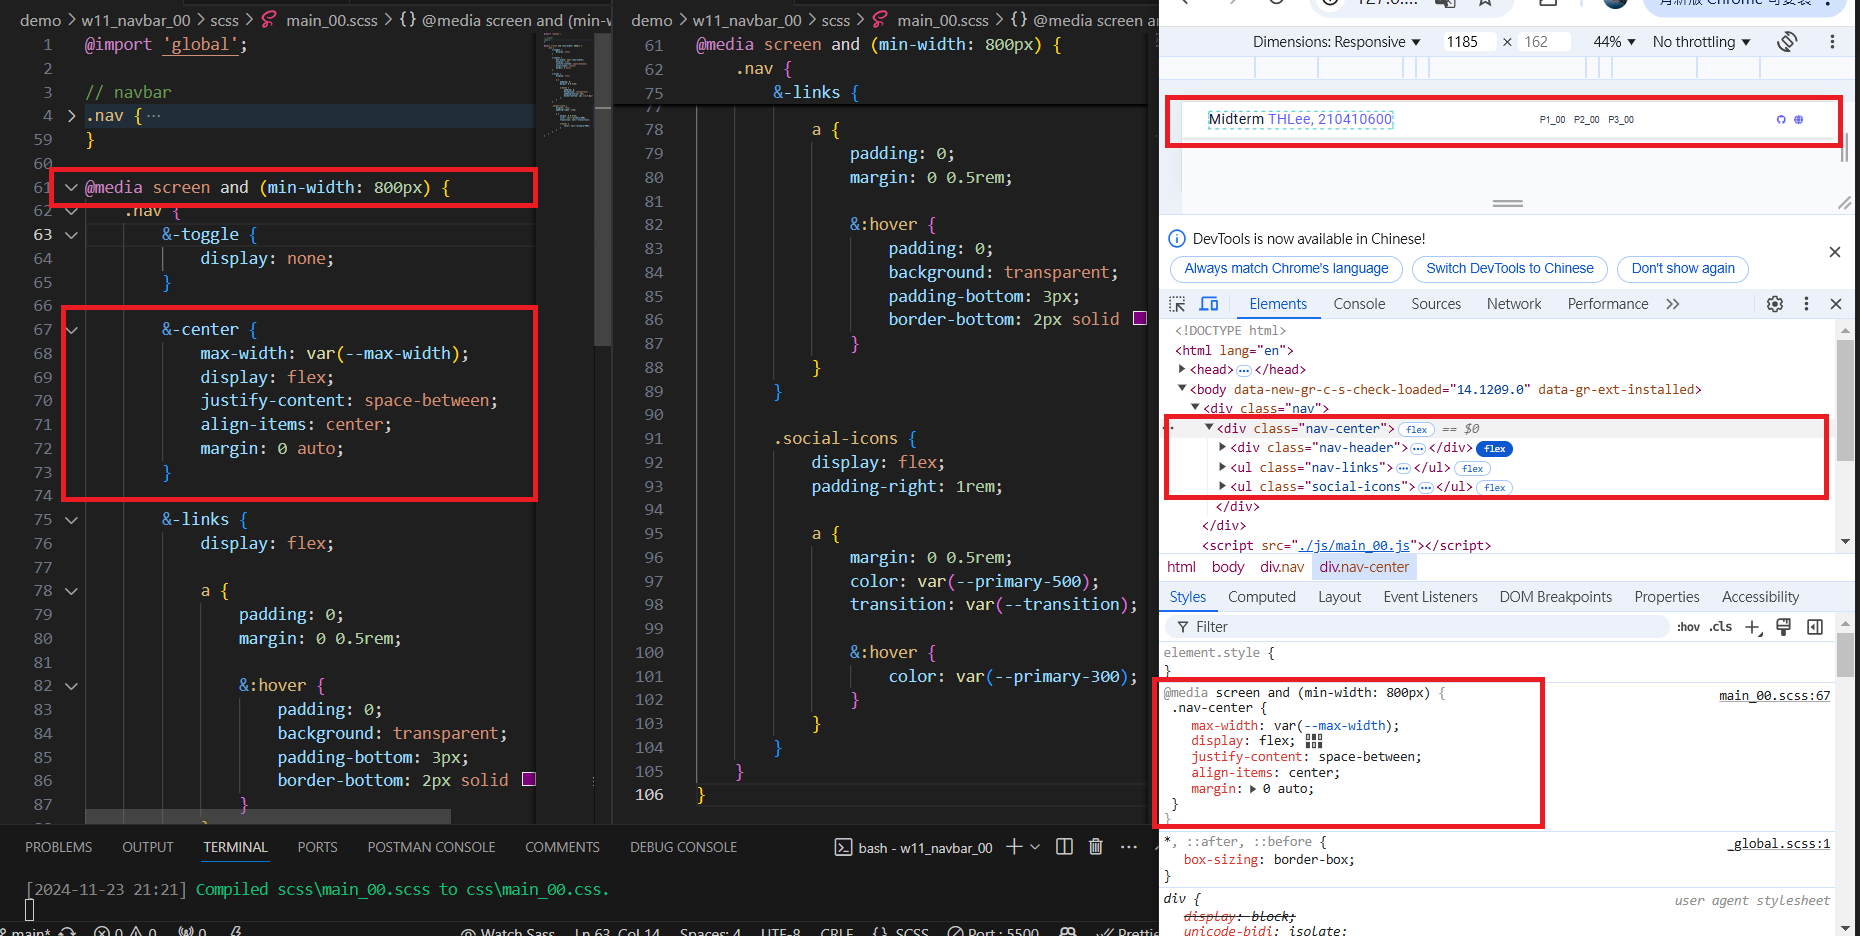
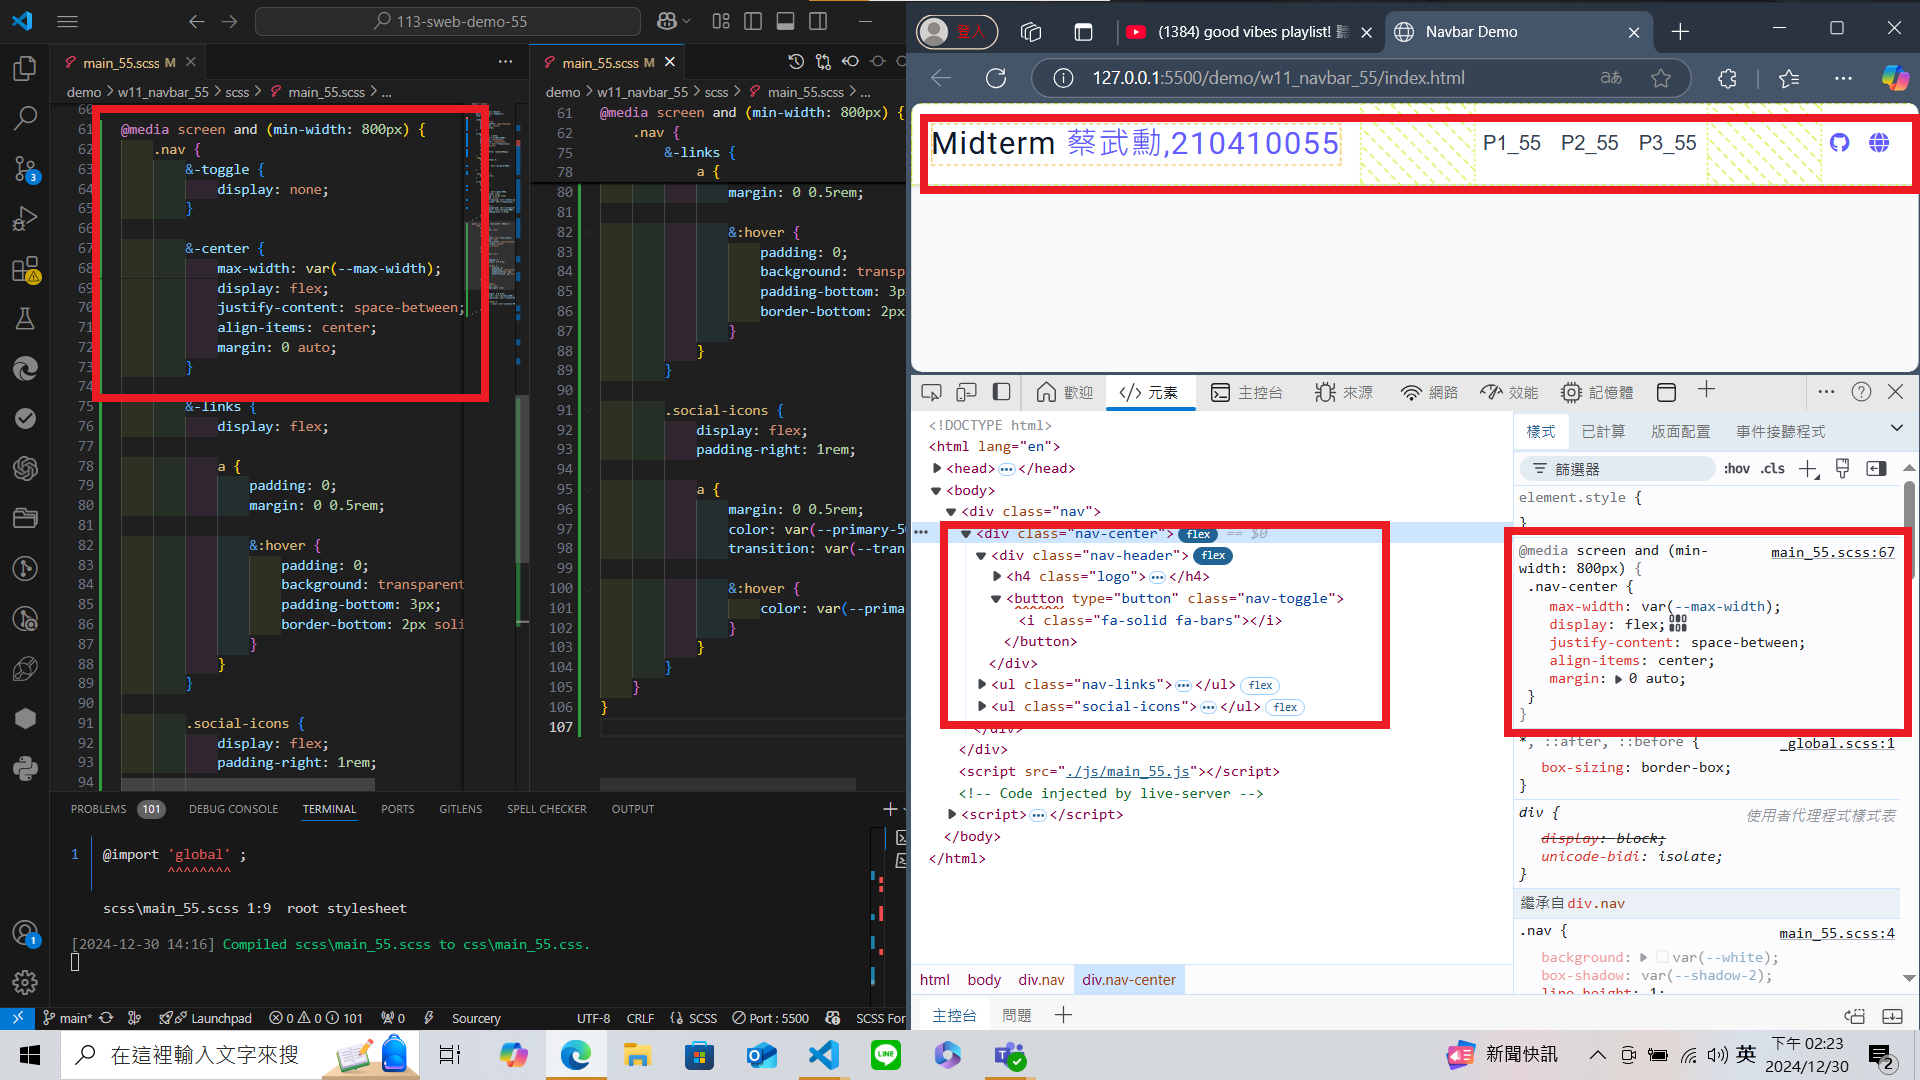
W11-P4: css for larger screen

diff --git a/demo/w11_navbar_55/scss/main_55.scss b/demo/w11_navbar_55/scss/main_55.scss
@@ -2,57 +2,104 @@
 
 // navbar 
 .nav {
-    background: var(--grey-300);
+    background: var(--white);
     box-shadow: var(--shadow-2);
     line-height: 1;
 
-
-&-header {
-    display: flex;
-    justify-content: space-between;
-    align-items: center;
-    padding: 1rem;
-}
-
-&-toggle {
-    font-size: 1.5rem;
-    color: var(--primary-500);
-    background: transparent;
-    background-color: transparent;
-    transition: var(--transition);
-    cursor: pointer;
-
-    &:hover {
-        transform: rotate(90deg);
+    &-header {
+        display: flex;
+        justify-content: space-between;
+        align-items: center;
+        padding: 1rem;
     }
-}
+
+    &-toggle {
+        font-size: 1.5rem;
+        color: var(--primary-500);
+        background: transparent;
+        border-color: transparent;
+        transition: var(--transition);
+        cursor: pointer;
+
+        &:hover {
+            transform: rotate(90deg);
+        }
+    }
     .logo {
         margin-bottom: 0;
 
         span {
-            color:var(--primary-500);
+            color: var(--primary-500);
         }
     }
-    .social-icons{
+
+    .social-icons {
         display: none;
     }
 
     &-links {
         margin: 0;
-        // height: 0;
+        //height: ;
 
-        a{
+        a {
             color: var(--grey-700);
             font-size: 1rem;
             padding: 0.75rem 1rem;
             display: block;
-            letter-spacing: var(--letterSpacing);
+            letter-spacing: var(--letter-spacing);
             transition: var(--transition);
 
             &:hover {
-                background: var(--prinary-300);
+                background: var(--primary-300);
                 color: var(--primary-500);
                 padding-left: 1.5rem;
+            }
+        }
+    }
+}
+
+@media screen and (min-width: 800px) {
+    .nav {
+        &-toggle {
+            display: none;
+        }
+
+        &-center {
+            max-width: var(--max-width);
+            display: flex;
+            justify-content: space-between;
+            align-items: center;
+            margin: 0 auto;
+        }
+
+        &-links {
+            display: flex;
+
+            a {
+                padding: 0;
+                margin: 0 0.5rem;
+
+                &:hover {
+                    padding: 0;
+                    background: transparent;
+                    padding-bottom: 3px;
+                    border-bottom: 2px solid purple;
+                }
+            }
+        }
+
+        .social-icons {
+            display: flex;
+            padding-right: 1rem;
+
+            a {
+                margin: 0 0.5rem;
+                color: var(--primary-500);
+                transition: var(--transition);
+
+                &:hover {
+                    color: var(--primary-300);
+                }
             }
         }
     }

diff --git a/demo/w11_navbar_55/css/main_55.css b/demo/w11_navbar_55/css/main_55.css
@@ -244,7 +244,7 @@ ul {
 }
 
 .nav {
-  background: var(--grey-300);
+  background: var(--white);
   box-shadow: var(--shadow-2);
   line-height: 1;
 }
@@ -258,7 +258,7 @@ ul {
   font-size: 1.5rem;
   color: var(--primary-500);
   background: transparent;
-  background-color: transparent;
+  border-color: transparent;
   transition: var(--transition);
   cursor: pointer;
 }
@@ -282,13 +282,51 @@ ul {
   font-size: 1rem;
   padding: 0.75rem 1rem;
   display: block;
-  letter-spacing: var(--letterSpacing);
+  letter-spacing: var(--letter-spacing);
   transition: var(--transition);
 }
 .nav-links a:hover {
-  background: var(--prinary-300);
+  background: var(--primary-300);
   color: var(--primary-500);
   padding-left: 1.5rem;
+}
+
+@media screen and (min-width: 800px) {
+  .nav-toggle {
+    display: none;
+  }
+  .nav-center {
+    max-width: var(--max-width);
+    display: flex;
+    justify-content: space-between;
+    align-items: center;
+    margin: 0 auto;
+  }
+  .nav-links {
+    display: flex;
+  }
+  .nav-links a {
+    padding: 0;
+    margin: 0 0.5rem;
+  }
+  .nav-links a:hover {
+    padding: 0;
+    background: transparent;
+    padding-bottom: 3px;
+    border-bottom: 2px solid purple;
+  }
+  .nav .social-icons {
+    display: flex;
+    padding-right: 1rem;
+  }
+  .nav .social-icons a {
+    margin: 0 0.5rem;
+    color: var(--primary-500);
+    transition: var(--transition);
+  }
+  .nav .social-icons a:hover {
+    color: var(--primary-300);
+  }
 }
 
 /*# sourceMappingURL=main_55.css.map */
